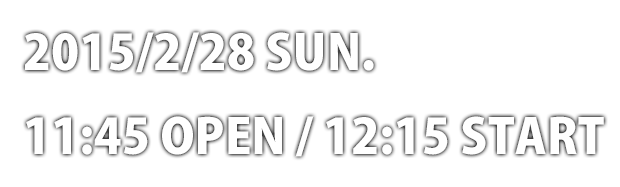
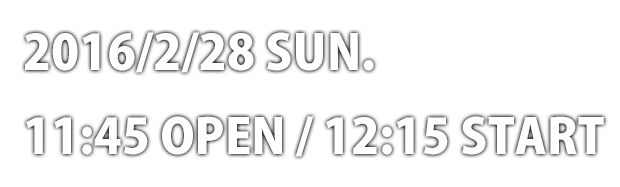
トップページ日時の修正

Changed region(s): [[0.1532, 0.1604, 0.2452, 0.4011]]

diff --git a/index.html b/index.html
@@ -95,7 +95,7 @@
 
     <main id="section-contents">
       <div class="pattern"></div>
-      <div class="liveDate"><img src="./assets/pc/images/index/img_top.png" width="585" height="187" alt="2015/2/28 SUN. 11:45 OPEN / 12:15 START"></div>
+      <div class="liveDate"><img src="./assets/pc/images/index/img_top.png" width="585" height="187" alt="2016/2/28 SUN. 11:45 OPEN / 12:15 START"></div>
       <div class="loader">
         <div class="inner"><img src="./assets/pc/images/common/logo.png" width="734" height="136" alt="Bonds of Smiley 4.5 - In My Live"></div>
       </div>

diff --git a/sp/index.html b/sp/index.html
@@ -90,7 +90,7 @@
 
     <main id="section-contents">
       <div class="pattern"></div>
-      <div class="liveDate"><img src="../assets/sp/images/index/img_top.png" alt="2015/2/28 SUN. 11:45 OPEN / 12:15 START" class="w100"></div>
+      <div class="liveDate"><img src="../assets/sp/images/index/img_top.png" alt="2016/2/28 SUN. 11:45 OPEN / 12:15 START" class="w100"></div>
     </main>
     <!-- #section-contents-->
 
